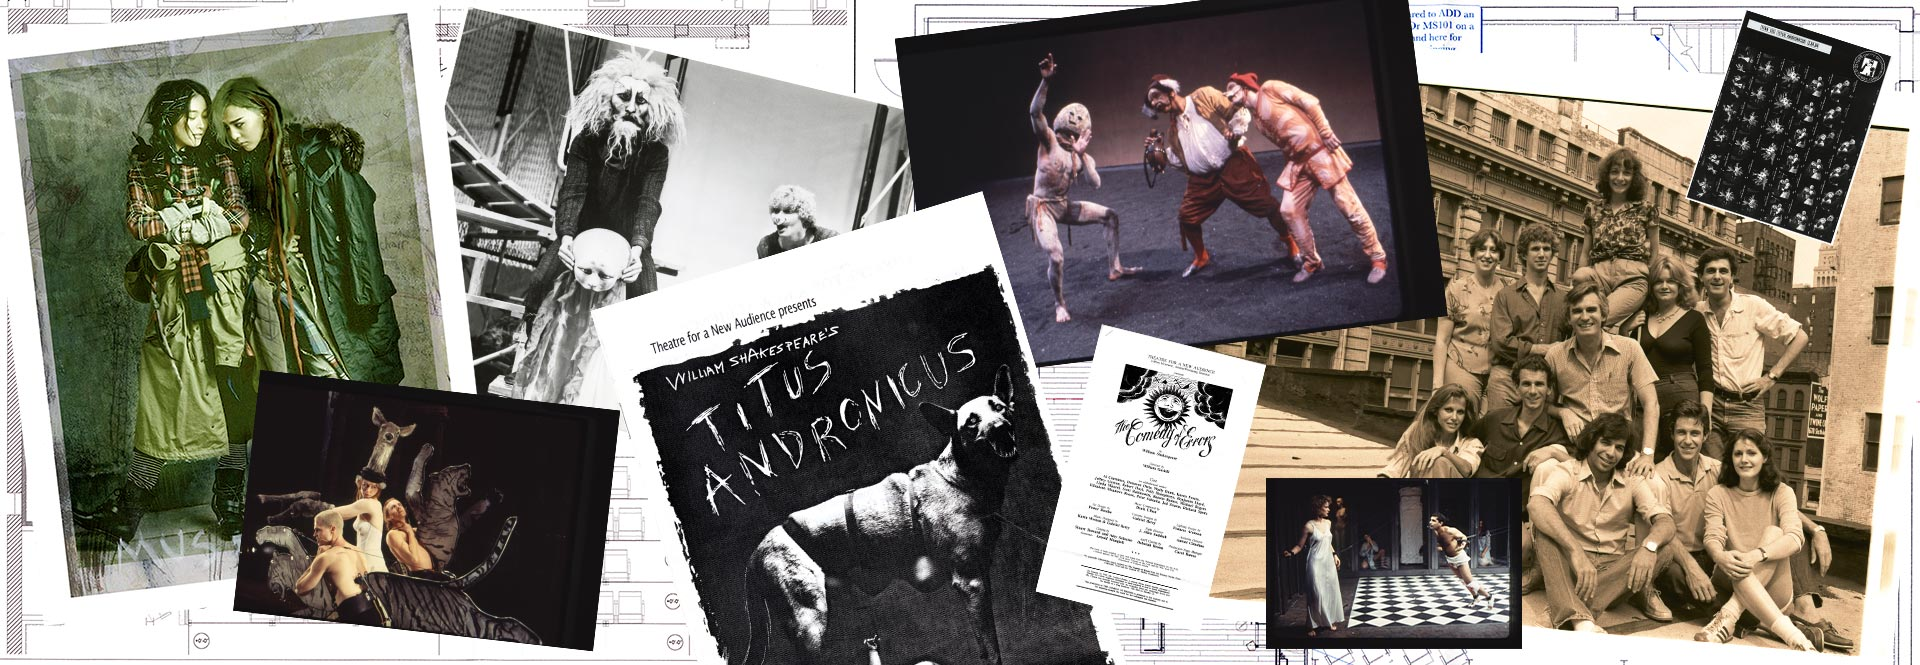
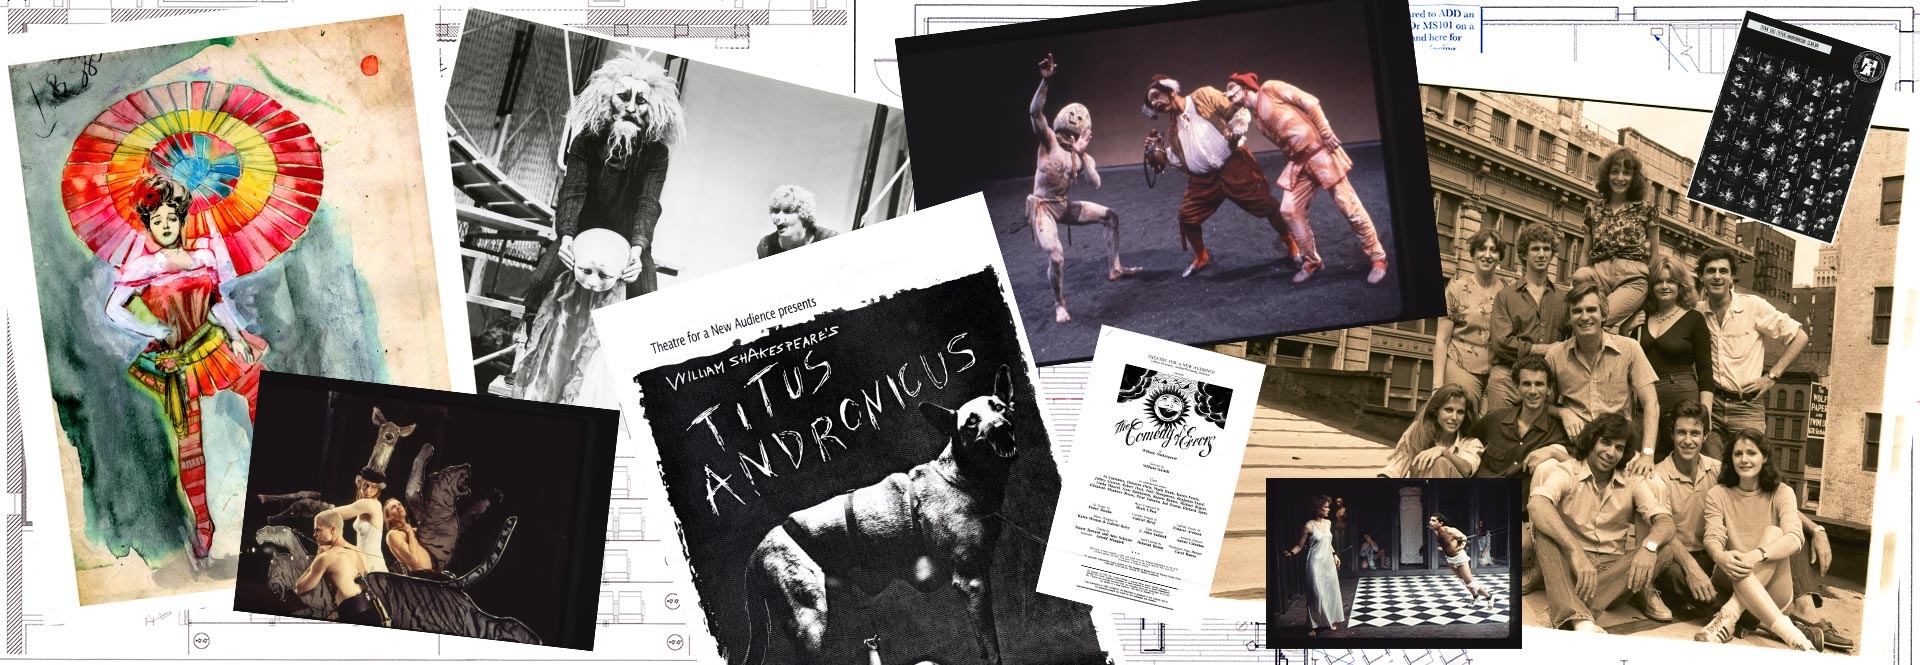
tfana update home page

Changed region(s): [[0.0, 0.0, 0.25, 0.9323]]

diff --git a/themes/tfana/views/Front/front_page_html.php b/themes/tfana/views/Front/front_page_html.php
@@ -57,7 +57,7 @@
 <div>		
 	<div class="img-fluid">
 <?php
-			print caGetThemeGraphic($this->request, 'homeCollage3.jpg', array("alt" => "Collage of imagery from the TFANA collections"))
+			print caGetThemeGraphic($this->request, 'homeCollage2.jpg', array("alt" => "Collage of imagery from the TFANA collections"))
 ?>
 	</div>
 </div>
